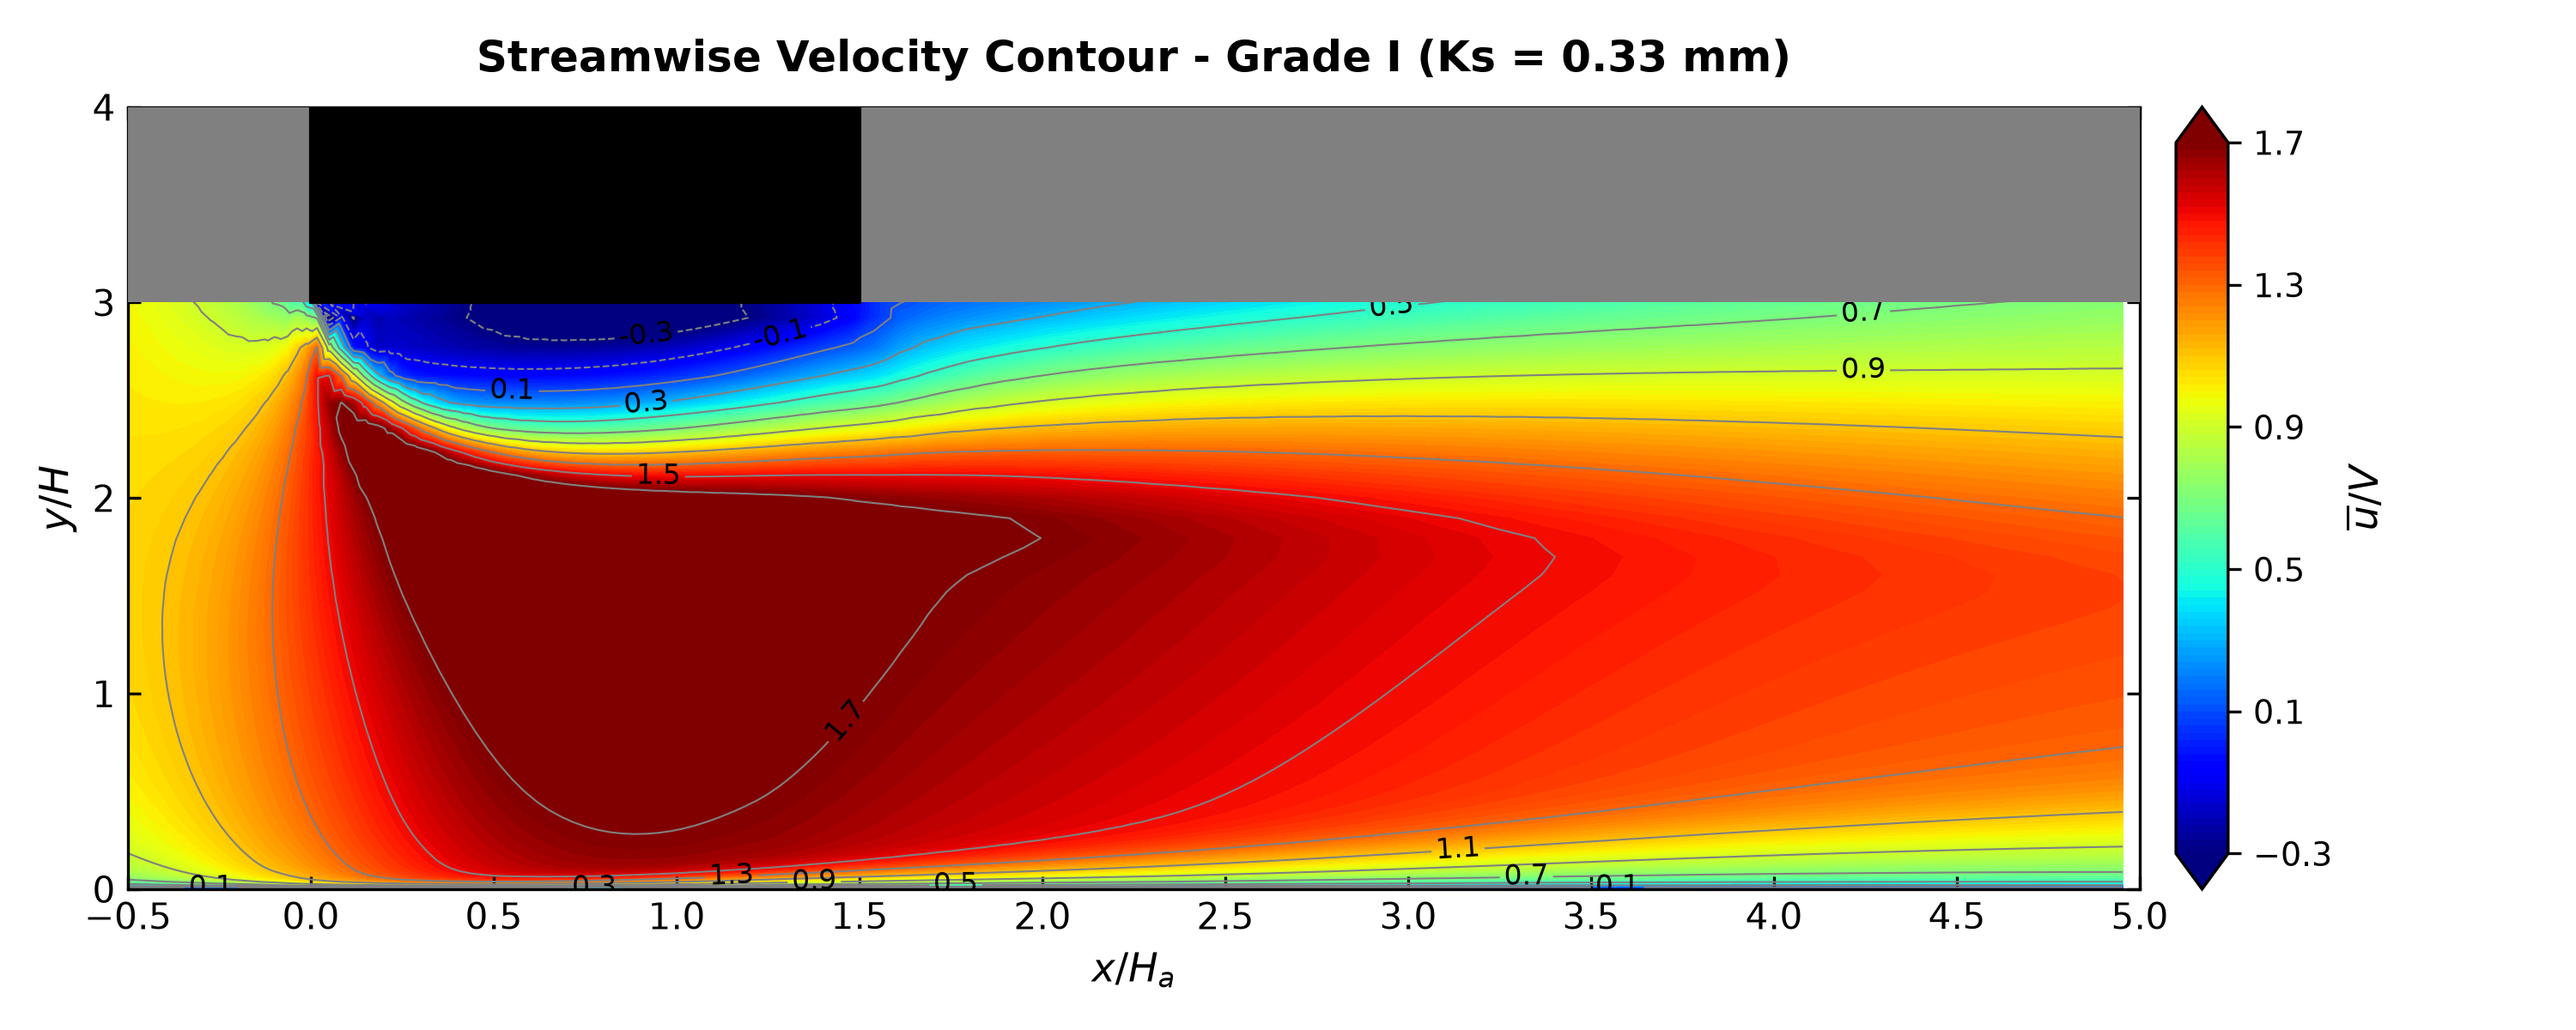
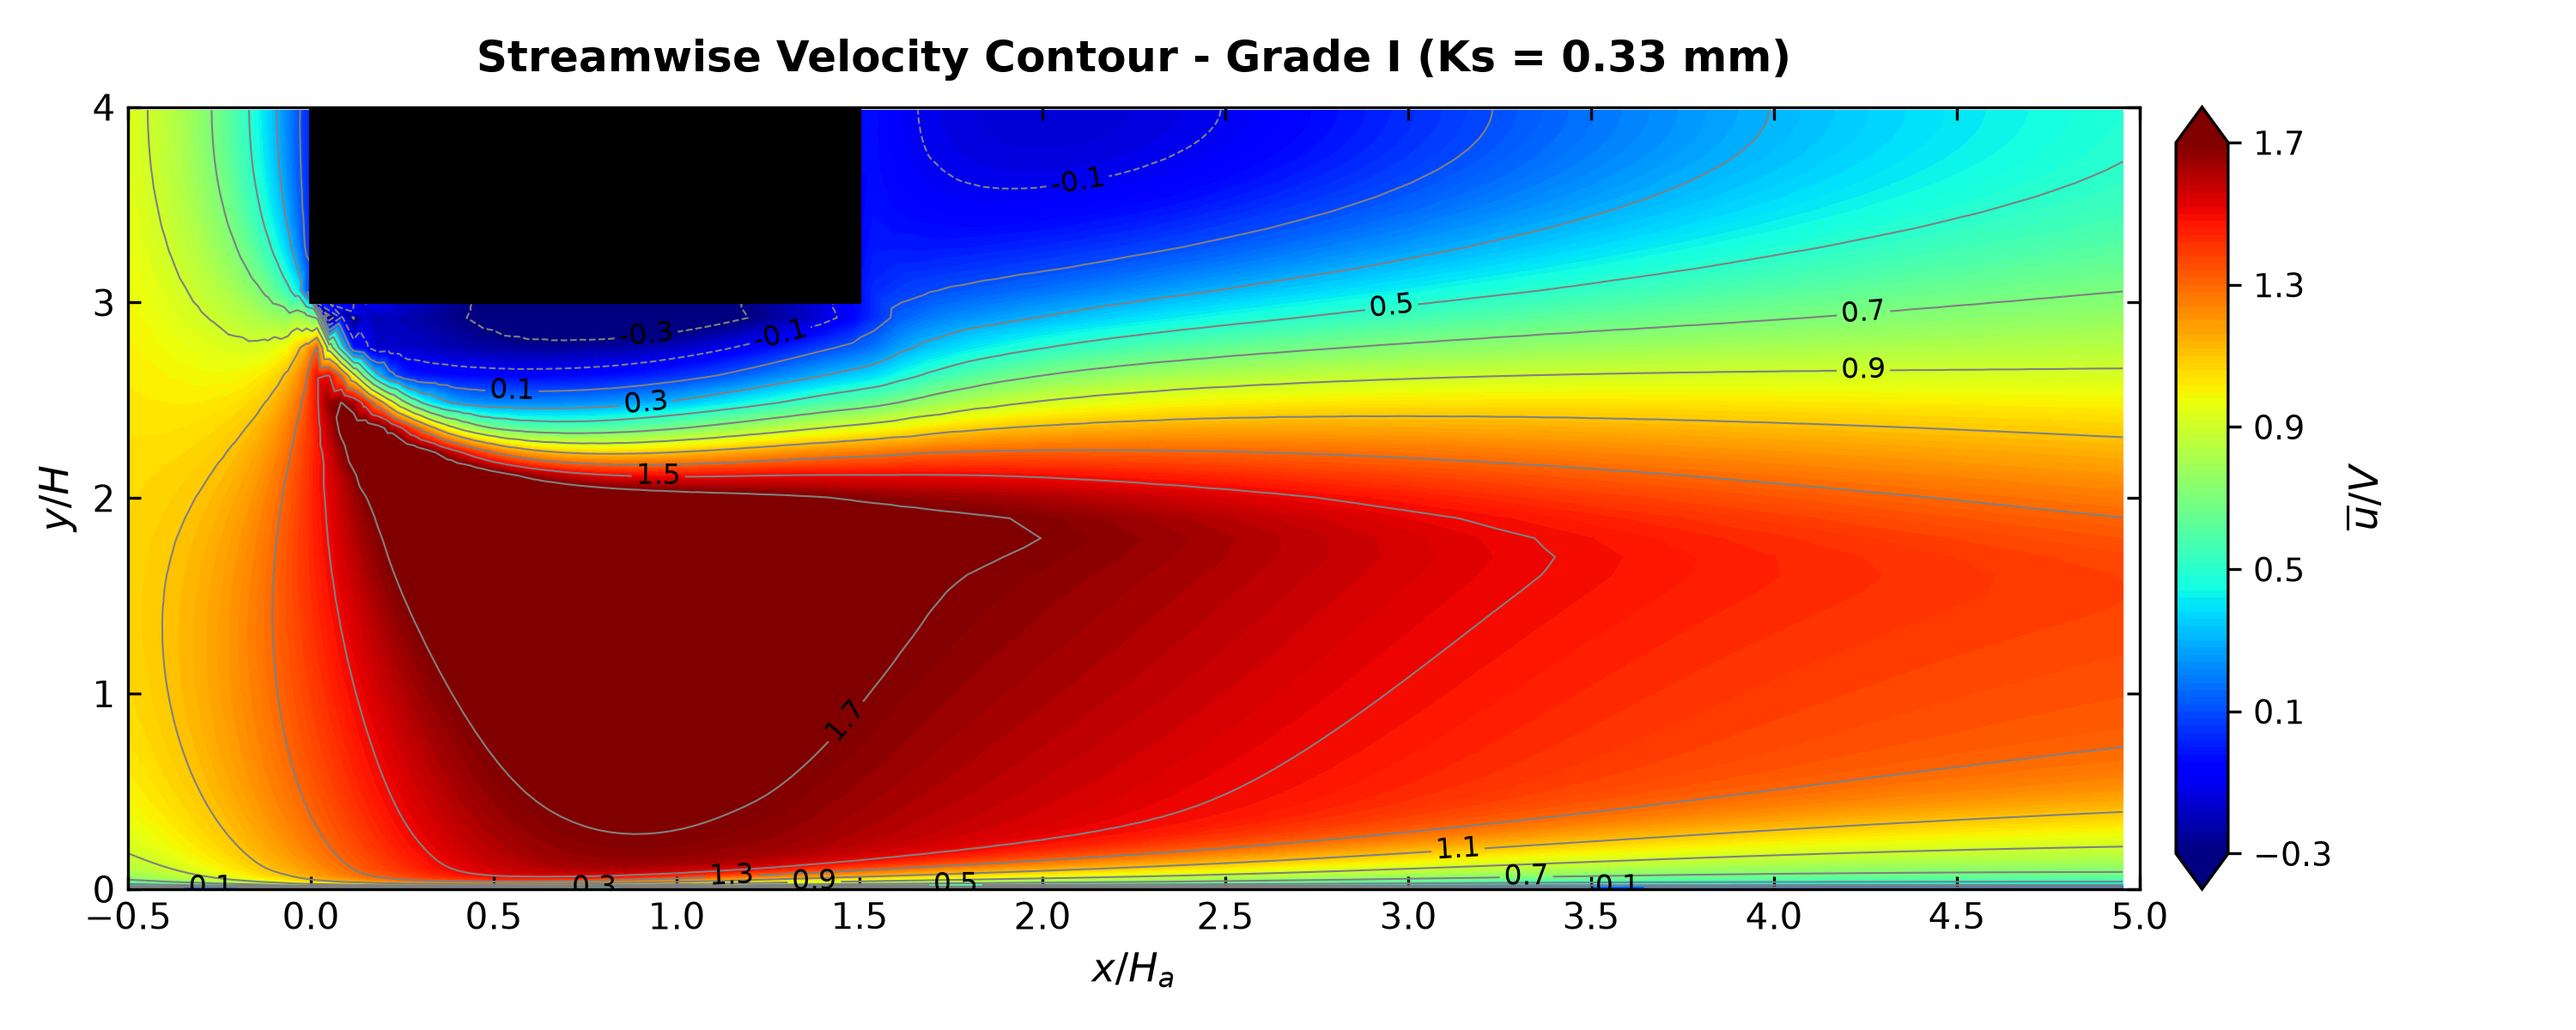
Show velocity contours for full active domain above y/H = 3.0

Changed region(s): [[0.31, 0.0925, 0.837, 0.3083], [0.031, 0.0925, 0.124, 0.3083]]

diff --git a/plot_velocity_contours.py b/plot_velocity_contours.py
@@ -93,16 +93,8 @@ for grade, (path, filename) in cases.items():
     # Add inline labels on the contour lines
     ax.clabel(cntr_l, inline=True, fontsize=8, fmt='%.1f', colors='black')
     
-    # Draw top boundary/ceiling as grey rectangles (where there is no bridge block)
-    # The bridge block itself spans x_norm in [0, 1.5] and y_norm in [3, 4]
-    # Ceiling upstream: x_norm in [-0.5, 0], y_norm in [3, 4]
-    # Ceiling downstream: x_norm in [1.5, 5.0], y_norm in [3, 4]
-    ceil_upstream = plt.Rectangle((-0.5, 3.0), 0.5, 1.0, facecolor='grey', edgecolor='none', zorder=8)
-    ceil_downstream = plt.Rectangle((1.5, 3.0), 3.5, 1.0, facecolor='grey', edgecolor='none', zorder=8)
-    ax.add_patch(ceil_upstream)
-    ax.add_patch(ceil_downstream)
-    
     # Draw the solid bridge block as a black rectangle
+    # The bridge block spans x_norm in [0.0, 1.5] (x in [1.0m, 1.15m]) and y_norm in [3.0, 4.0] (y in [0.075m, 0.100m])
     bridge_block = plt.Rectangle((0.0, 3.0), 1.5, 1.0, facecolor='black', edgecolor='black', zorder=10)
     ax.add_patch(bridge_block)
     
